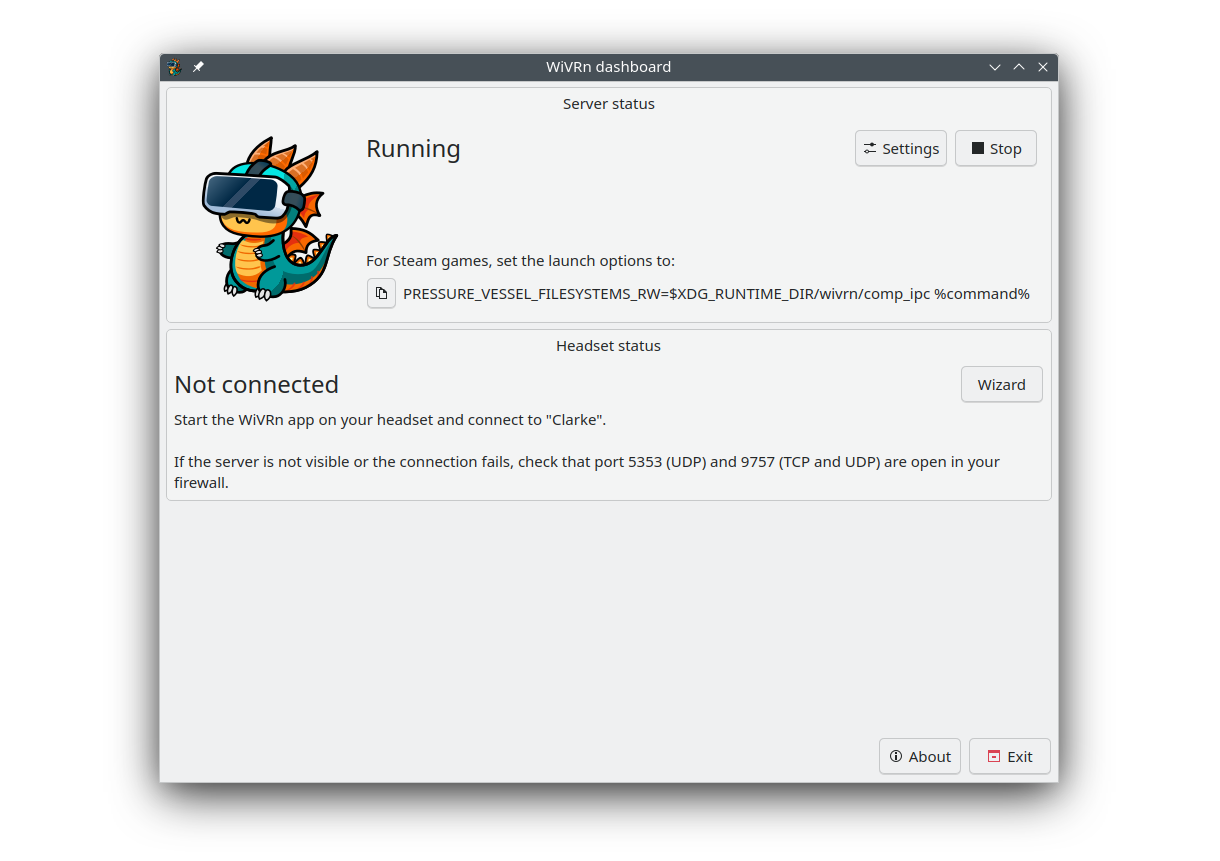
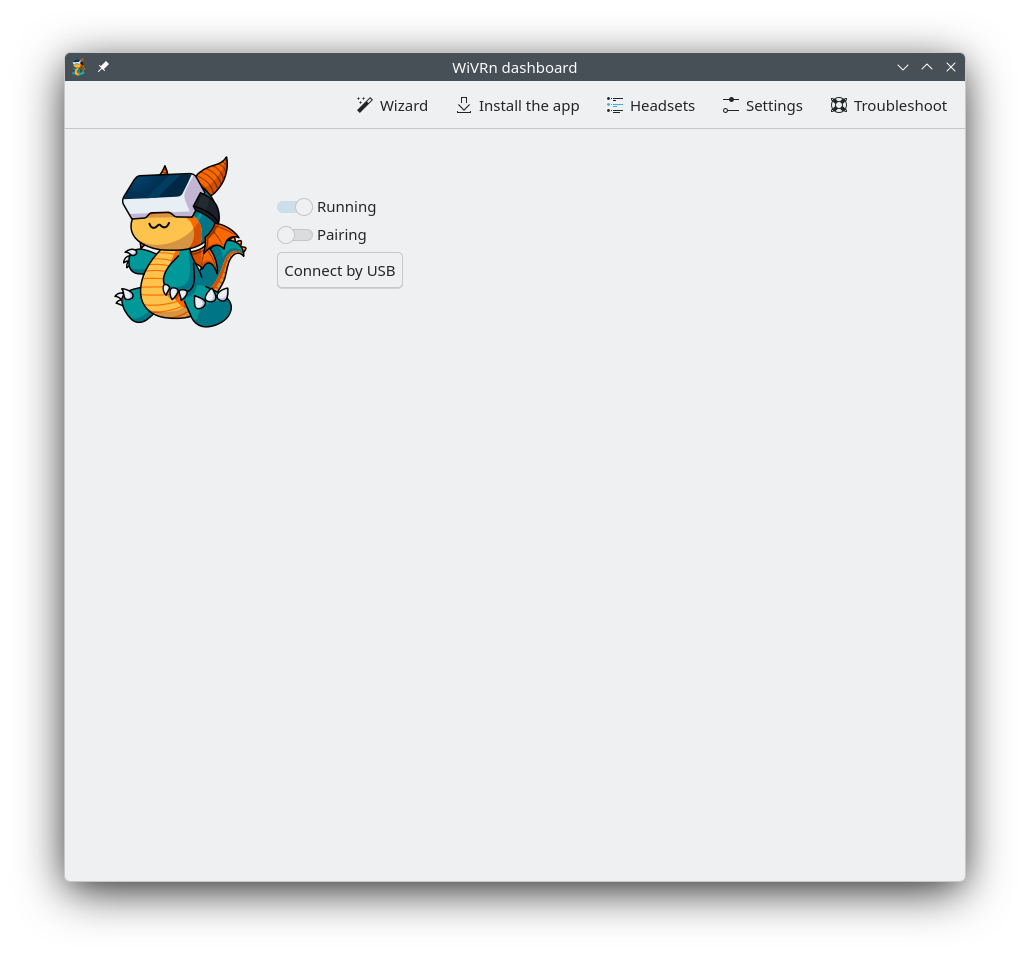
remove obsolete/useless content, update screenshots

Changed region(s): [[0.0311, 0.0302, 0.9631, 0.9663], [0.466, 0.3926, 0.5592, 0.4228], [0.2796, 0.151, 0.3728, 0.1812]]

diff --git a/index.html b/index.html
@@ -45,10 +45,7 @@
                 </button>
                 <div class="collapse navbar-collapse" id="navbarResponsive">
                     <ul class="navbar-nav ms-auto">
-                        <li class="nav-item"><a class="nav-link" href="#about">About</a></li>
                         <li class="nav-item"><a class="nav-link" href="#get-started">Get started</a></li>
-                        <li class="nav-item"><a class="nav-link" href="#settings">Settings</a></li>
-                        <li class="nav-item"><a class="nav-link" href="#demo">Demo</a></li>
                         <li class="nav-item"><a class="nav-link" href="#privacy">Privacy</a></li>
                         <li class="nav-item"><a class="nav-link" href="#faq">FAQ</a></li>
                         <li class="nav-item"><a class="nav-link" href="#contact">Contact</a></li>
@@ -81,73 +78,6 @@
                 </div>
             </div>-->
 
-            <section class="about-section text-center">
-                <div class="container px-4 px-lg-5">
-                    <div class="row gx-4 gx-lg-5 justify-content-center">
-                        <div class="col-lg-8">
-                            <h2 class="text-white mb-4">An open source VR streaming solution for Linux</h2>
-                            <p class="text-white-50">
-                                WiVRn allows you to run VR applications on your PC and display and control them wirelessly from a compatible headset.
-                            </p>
-                            <p class="text-white-50">
-<!--                             Lorum ipsum bla bla bla -->
-                            </p>
-                        </div>
-                    </div>
-                </div>
-            </section>
-
-            <section class="about-section-next bg-light">
-                <div class="container px-4 px-lg-5">
-                    <div class="row gx-0 mb-4 mb-lg-5 align-items-center">
-                        <div class="col-xl-8 col-lg-7"><img class="img-fluid mb-3 mb-lg-0" src="assets/img/mountains.jpeg" alt="..." /></div>
-                        <div class="col-xl-4 col-lg-5">
-                            <div class="featured-text text-center text-lg-left">
-                                <h4 class="text-black">How WiVRn works</h4>
-                                <p class="text-black-50 mb-0">
-                                    Head tracking, controller tracking, and hand tracking data are sent from your headset to your PC,
-                                    and audio and video data are sent from your PC to your headset over WiFi, with software or hardware
-                                    compression in H264 or HEVC.
-                            </p>
-                            </div>
-                        </div>
-                    </div>
-
-                    <div class="row gx-0 mb-5 mb-lg-0 justify-content-center">
-                        <div class="col-lg-6"><img class="img-fluid" src="assets/img/vr-headset.jpeg" alt="..." /></div>
-                        <div class="col-lg-6">
-                            <div class="bg-black text-center h-100 project">
-                                <div class="d-flex h-100">
-                                    <div class="project-text w-100 my-auto text-center text-lg-left">
-                                        <h4 class="text-white">Compatible with many headsets</h4>
-                                        <p class="mb-0 text-white-50">
-                                        WiVRn works with Meta Quest 1, 2, 3 and Pro, with Pico Neo 4, and with HTC Vive Focus 3 and XR Elite.
-                                        </p>
-                                    </div>
-                                </div>
-                            </div>
-                        </div>
-                    </div>
-
-                    <div class="row gx-0 justify-content-center">
-                        <div class="col-lg-6"><img class="img-fluid" src="assets/img/vr-game.jpeg" alt="..." /></div>
-                        <div class="col-lg-6 order-lg-first">
-                            <div class="bg-black text-center h-100 project">
-                                <div class="d-flex h-100">
-                                    <div class="project-text w-100 my-auto text-center text-lg-right">
-                                        <h4 class="text-white">Compatible with OpenXR and OpenVR applications</h4>
-                                        <p class="mb-0 text-white-50">
-                                        Using <a href="https://monado.dev/">Monado</a> for OpenXR and <a href="https://gitlab.com/znixian/OpenOVR">OpenComposite</a> for OpenVR,
-                                        WiVRn is compatible with most VR applications, including SteamVR games.
-                                        </p>
-                                    </div>
-                                </div>
-                            </div>
-                        </div>
-                    </div>
-                </div>
-            </section>
-        </div>
 
         <!-- Getting started -->
         <section class="get-started-section bg-light" id="get-started">
@@ -167,6 +97,9 @@
                                     <button class="nav-link" id="archlinux-tab" data-bs-toggle="tab" data-bs-target="#archlinux" type="button" role="tab" aria-controls="archlinux" aria-selected="true">Arch Linux</button>
                                 </li>
                                 <li class="nav-item" role="presentation">
+                                    <button class="nav-link" id="source-tab" data-bs-toggle="tab" data-bs-target="#fedora" type="button" role="tab" aria-controls="source" aria-selected="false">Fedora</button>
+                                </li>
+                                <li class="nav-item" role="presentation">
                                     <button class="nav-link" id="gentoo-tab" data-bs-toggle="tab" data-bs-target="#gentoo" type="button" role="tab" aria-controls="gentoo" aria-selected="false">Gentoo</button>
                                 </li>
                                 <li class="nav-item" role="presentation">
@@ -183,11 +116,17 @@
                                     <code>yay -S wivrn-dashboard</code>
                                     <p/>
                                     <p>In order to run OpenVR or any Steam game, a compatibility library such as opencomposite or xrizer is also needed:</p>
-                                    <code>yay -S opencomposite-git</code>
+                                    <code>yay -S xrizer-git</code>
+                                </div>
+                                <div class="tab-pane fade" id="fedora" role="tabpanel" aria-labelledby="fedora-tab">
+                                    <p>A <a href="https://packages.fedoraproject.org/pkgs/wivrn/wivrn/">wivrn</a> package is available in Fedora:</p>
+                                    <code>sudo dnf install wivrn</code>
+                                    <p/>
+                                    <p>Note that patented codecs (H.264 and H.265) are not available by default on Fedora, you will have to install them from rpmfusion if you need to use such codecs.</p>
                                 </div>
                                 <div class="tab-pane fade" id="gentoo" role="tabpanel" aria-labelledby="gentoo-tab">
-                                    <p>A <a href="https://gitweb.gentoo.org/repo/proj/guru.git/tree/media-libs/wivrn">wivrn</a> package is available on Guru.</p>
-                                    <p>In order to run OpenVR or any Steam game, <a href="https://gitweb.gentoo.org/repo/proj/guru.git/tree/media-libs/opencomposite">opencomposite</a> is also required.</p>
+                                    <p>A <a href="https://gitweb.gentoo.org/repo/proj/guru.git/tree/media-libs/wivrn">media-libs/wivrn</a> package is available on Guru.</p>
+                                    <p>In order to run OpenVR or any Steam game, <a href="https://gitweb.gentoo.org/repo/proj/guru.git/tree/media-libs/xrizer">media-libs/xrizer</a> or <a href="https://gitweb.gentoo.org/repo/proj/guru.git/tree/media-libs/opencomposite">media-libs/opencomposite</a> is also required.</p>
                                 </div>
                                 <div class="tab-pane fade" id="source" role="tabpanel" aria-labelledby="source-tab">
                                     Instructions for building the WiVRn dashboard from source are available on the <a href="https://github.com/WiVRn/WiVRn/blob/master/docs/building.md#server-pc">GitHub repository</a>.
@@ -241,8 +180,6 @@
                                     <li>Connect to your PC from your headset<br/><!--TODO: image--></li>
                                     <li>Start a VR application from your PC</li>
                                 </ol>
-                                For SteamVR games, you will also need to set the <a href="" onclick="select_carousel('#getting-started-slides', 3); return false">launch options</a>. Right-click on the game in your library,
-                                select properties and paste the launch options from the <a href="" onclick="select_carousel('#getting-started-slides', 1); return false">dashboard</a>.
                             </div>
                         </div>
 
@@ -255,10 +192,16 @@
                                     <button type="button" data-bs-target="#getting-started-slides" data-bs-slide-to="3" aria-label="Slide 4"></button>
                                     <button type="button" data-bs-target="#getting-started-slides" data-bs-slide-to="4" aria-label="Slide 5"></button>
                                     <button type="button" data-bs-target="#getting-started-slides" data-bs-slide-to="5" aria-label="Slide 6"></button>
-                                    <button type="button" data-bs-target="#getting-started-slides" data-bs-slide-to="6" aria-label="Slide 7"></button>
                                 </div>
                                 <div class="carousel-inner">
                                     <div class="carousel-item active">
+                                        <img src="screenshots/dashboard-2.png" class="d-block w-100">
+                                        <div class="carousel-caption d-none d-md-block">
+                                            <p>WiVRn main screen</p>
+                                        </div>
+                                    </div>
+
+                                    <div class="carousel-item">
                                         <img src="screenshots/dashboard-1.png" class="d-block w-100">
                                         <div class="carousel-caption d-none d-md-block">
                                             <p>Use the connection wizard to download the client app</p>
@@ -266,44 +209,30 @@
                                     </div>
 
                                     <div class="carousel-item">
-                                        <img src="screenshots/dashboard-2.png" class="d-block w-100">
-                                        <div class="carousel-caption d-none d-md-block">
-                                            <p>TBD</p>
-                                        </div>
-                                    </div>
-
-                                    <div class="carousel-item">
                                         <img src="screenshots/dashboard-3.png" class="d-block w-100">
                                         <div class="carousel-caption d-none d-md-block">
-                                            <p>TBD</p>
-                                        </div>
-                                    </div>
-
-                                    <div class="carousel-item">
-                                        <img src="screenshots/steam-config.png" class="d-block w-100">
-                                        <div class="carousel-caption d-none d-md-block">
-                                            <p>Set the correct launch options for Steam games</p>
+                                            <p>WiVRn settings screen</p>
                                         </div>
                                     </div>
 
                                     <div class="carousel-item">
                                         <img src="screenshots/vr-applist.png" class="d-block w-100">
                                         <div class="carousel-caption d-none d-md-block">
-                                            <p>THe client app might be in "unknown sources" when it is not installed through the store</p>
+                                            <p>The client app might be in "unknown sources" when it is not installed through the store</p>
                                         </div>
                                     </div>
 
                                     <div class="carousel-item">
                                         <img src="screenshots/vr-serverlist.png" class="d-block w-100">
                                         <div class="carousel-caption d-none d-md-block">
-                                            <p>TBD</p>
+                                            <p>WiVRn headset main screen</p>
                                         </div>
                                     </div>
 
                                     <div class="carousel-item">
                                         <img src="screenshots/vr-connected.png" class="d-block w-100">
                                         <div class="carousel-caption d-none d-md-block">
-                                            <p>TBD</p>
+                                            <p>WiVRn headset connection screen</p>
                                         </div>
                                     </div>
                                 </div>
@@ -325,94 +254,6 @@
 <!--                 <div class="row gx-0 mb-4 mb-lg-5 align-items-center"> -->
 <!--                 </div> -->
 <!--             </div> -->
-        </section>
-
-
-        <!-- Settings -->
-        <section class="get-started-section bg-light" id="settings">
-            <div class="container px-4 px-lg-5">
-                <div class="row gx-4 gx-lg-5 justify-content-center">
-                    <div class="col-lg-8">
-                        <h2 class="text-black mb-4">Settings</h2>
-
-                        <div class="row gx-0 my-5 justify-content-center">
-                            <h4>Settings guide</h4>
-
-                            <ul class="nav nav-tabs" id="myTab2" role="tablist">
-                                <li class="nav-item" role="presentation">
-                                    <button class="nav-link active" id="foveation-tab" data-bs-toggle="tab" data-bs-target="#foveation" type="button" role="tab" aria-controls="adb" aria-selected="true">Foveation</button>
-                                </li>
-                                <li class="nav-item" role="presentation">
-                                    <button class="nav-link" id="bitrate-tab" data-bs-toggle="tab" data-bs-target="#bitrate" type="button" role="tab" aria-controls="bitrate" aria-selected="true">Bitrate</button>
-                                </li>
-                                <li class="nav-item" role="presentation">
-                                    <button class="nav-link" id="enconders-tab" data-bs-toggle="tab" data-bs-target="#encoders" type="button" role="tab" aria-controls="encoders" aria-selected="false">Encoders</button>
-                                </li>
-                            </ul>
-                            <div class="tab-content" id="myTabContent2">
-                                <div class="tab-pane fade show active" id="foveation" role="tabpanel" aria-labelledby="foveation-tab">
-                                    <p>A stronger foveation makes the image sharper in the center than in the periphery and makes the decoding faster. This is better for fast paced games. </p>
-
-                                    <p>A weaker foveation gives a uniform sharpness in the whole image.</p>
-
-                                    <p>The recommended values are between 20% and 50% for headsets without eye tracking and between 50% and 70% for headsets with eye tracking.</p>
-                                </div>
-                                <div class="tab-pane fade" id="bitrate" role="tabpanel" aria-labelledby="bitrate-tab">
-                                    <p>Bitrate of the video, in Mbit/s. Split among decoders based on size and codecs.</p>
-                                    <p>A higher bitrate directly improves image quality by reducing pixelation in fast-paced scenes or in complex visuals, such as landscapes with dense foliage. However, it may also increase latency or overload the network, encoder, or decoder.</p>
-                                    <p>For testing purposes, a bitrate of 50 Mbit/s is a good starting point for wireless connections. Wired connections, if supported by the hardware, should be able to handle up to 480 Mbit/s.Although it is currently capped at 200 Mbit/s.</p>
-                                </div>
-<!--                                <div class="tab-pane fade" id="adb" role="tabpanel" aria-labelledby="adb-tab">
-                                    Your headset needs to be configured in developer mode.<br/>
-                                    Download the <a href="https://github.com/WiVRn/WiVRn/releases/latest/download/WiVRn-standard-release.apk">latest WiVRn client</a> from GitHub.<br/>
-                                    Install the APK with <code>adb install WiVRn-standard-release.apk</code>
-                                </div>-->
-                                <div class="tab-pane fade" id="encoders" role="tabpanel" aria-labelledby="encoders">
-                                    <p>Encoders compresses video data in real-time to reduce bandwidth and latency, enabling smooth transmission to the headset.</p>
-                                    <p>WiVRn has the ability to split the video in blocks that are processed independently, this may use resources more effectively and reduce latency. All the provided encoders are put into groups, groups are executed concurrently and items within a group are processed sequentially.</p>
-                                    <p>It is possible to mix CPU/GPU encoding if you have spare CPU cores. On AMD systems, this can provide a significant improvement. For high bitrates, avoid software encoding, as CPU time increases significantly.</p>
-                                    <p>Default value: 3 encoders in order 1/8th, 3/8th and 4/8th of the image.</p>
-                                    <h5><strong>Encoder</strong></h5>
-                                    <p>Identifier of the encoder, one of</p>
-                                    <ul>
-                                        <li>x264: Software encoding</li>
-                                        <li>NVENC: Nvidia hardware encoding</li>
-                                        <li>VAAPI: AMD/Intel hardware encoding</li>
-                                        <li>Vulkan: Experimental, for any GPU that supports Vulkan video encode</li>
-                                    </ul>
-                                    <p>Default value: nvenc if Nvidia GPU and compiled with nvenc, vaapi for all other GPU when compiled with ffmpeg, else x264.</p>
-                                    <h5><strong>Codec</strong></h5>
-                                    <p>One of h264, h265 or av1. Not all encoders support every codec, x264 and vulkan only support h264, nvenc only h264 and h265.</p>
-                                    <p>On the dashboard, you can add a new encoder by splitting an existing one and clicking near an edge. Drag the edge to resize, or remove encoders by moving the line to one of the limits.</p>
-                                    <p>By clicking on each block, like the one highlighted in blue in the image, you can select the Encoder and Codec.</p>
-                                    <p>Default value: first supported by both headset and encoder of av1, h264, h265.</p>
-                                </div>
-                            </div>
-                            <img src="screenshots/settings/settings.png" class="d-block w-100">
-                        </div>
-                    </div>
-                </div>
-            </div>
-<!--             <div class="container px-4 px-lg-5"> -->
-<!--                 <div class="row gx-0 mb-4 mb-lg-5 align-items-center"> -->
-<!--                 </div> -->
-<!--             </div> -->
-        </section>
-
-
-        <!-- Demo -->
-        <section class="demo-section bg-light" id="demo">
-            <div class="container px-4 px-lg-5">
-                <div class="row gx-4 gx-lg-5 justify-content-center">
-                    <div class="col-lg-8">
-                        <h2 class="text-black mb-4">Demo</h2>
-
-                        <video controls class="ratio ratio-16x9">
-                            <source src="assets/demo-av1.webm" type="video/webm" />
-                        </video>
-                    </div>
-                </div>
-            </div>
         </section>
 
         <!-- Privacy -->
@@ -466,8 +307,8 @@
                         <h4>Steam games don't launch on the headset</h4>
                         <div>
                             <ul>
-                                <li>Make sure that an OpenVR compatibility such as OpenComposite or xrizer is installed. The flatpak version includes OpenComposite.</li>
-                                <li>Copy the launch arguments listed in the dashboard in the Steam launch parameters for the game.</li>
+                                <li>Make sure that an OpenVR compatibility such as OpenComposite or xrizer is installed. The flatpak version includes both.</li>
+                                <li>Copy the launch arguments listed in the dashboard in the Steam launch parameters for the game. If no launch parameters are shown in the WiVRn dashboard, then they are not needed.</li>
                                 <li>When using flatpak Steam, additional permissions must be given for OpenXR files, see details in <a href="https://github.com/WiVRn/WiVRn?tab=readme-ov-file#steam-flatpak">readme</a></li>
                             </ul>
                         </div>
